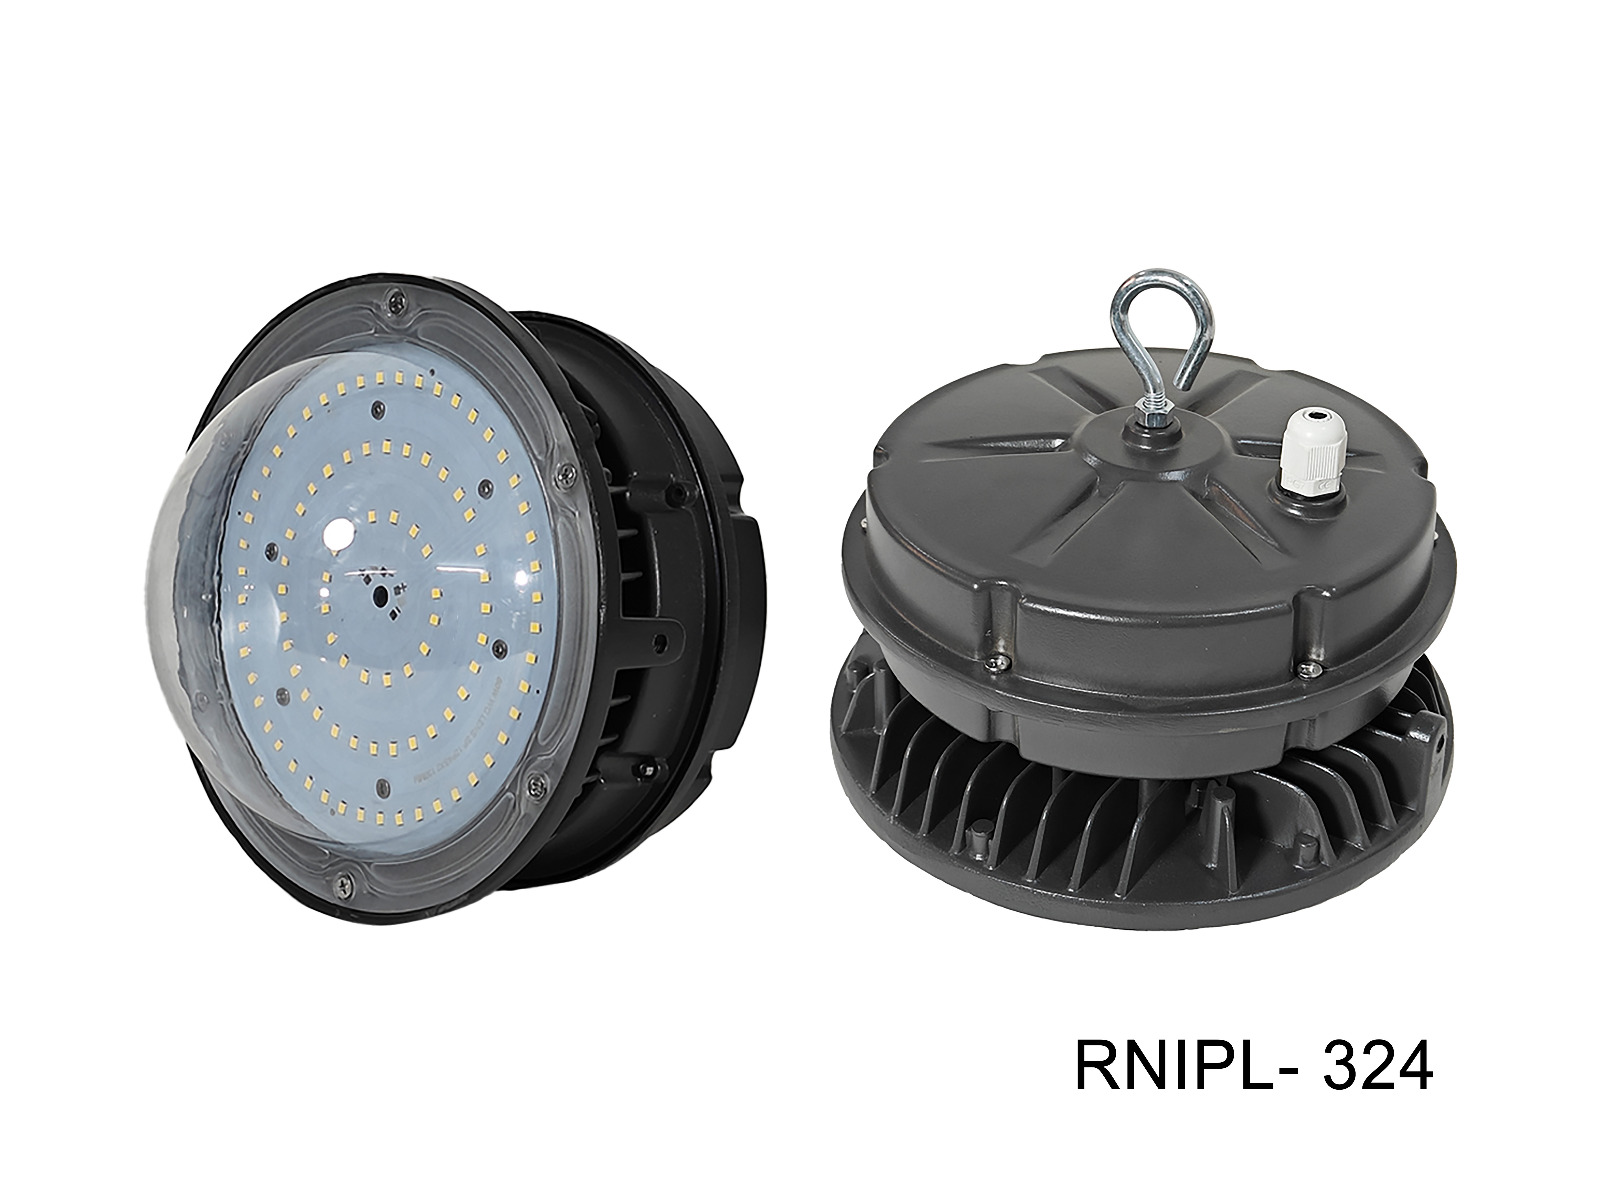
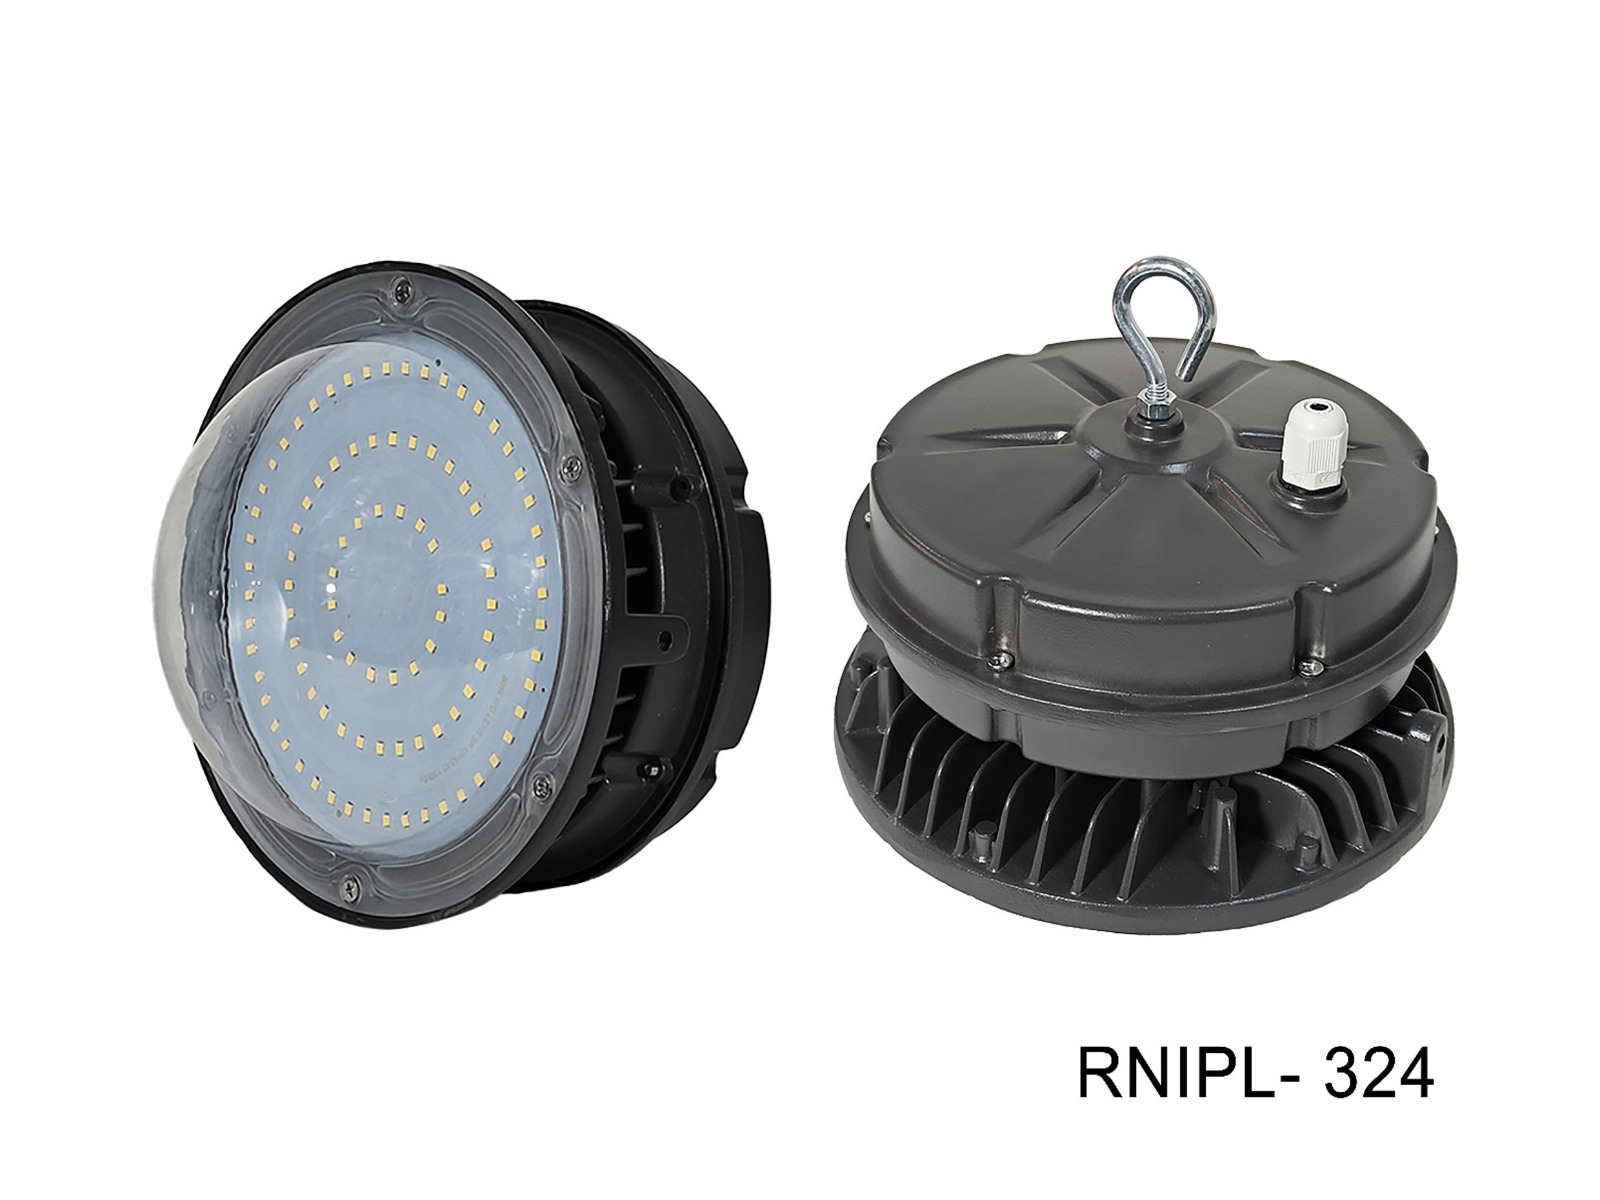
fix : detail page specs and 323 324 images

diff --git a/src/pages/ProductDetail.tsx b/src/pages/ProductDetail.tsx
@@ -28,14 +28,14 @@ export default function ProductDetail() {
                 {/* Specs table */}
                 <div className="w-1/2">
                     <div className='text-2xl text-gray-800 fond-bold mb-4'>Specifications</div>
-                    <table className="w-full border-collapse border border-gray-300">
+                    <table className="w-600 border-collapse border border-gray-300">
                         <tbody>
                             {product.specs.map((spec) => (
                                 <tr key={spec.label} className="border border-gray-300">
-                                    <td className="px-4 py-3 text-lg font-medium text-gray-700 w-1/2 border border-gray-300">
+                                    <td className="px-2 py-2 text-lg font-medium text-gray-700 w-1/2 border border-gray-300">
                                         {spec.label}
                                     </td>
-                                    <td className="px-4 py-3 text-sm text-gray-600 w-1/2">
+                                    <td className="px-2 py-2 text-sm text-gray-600 w-1/2">
                                         {spec.value}
                                     </td>
                                 </tr>